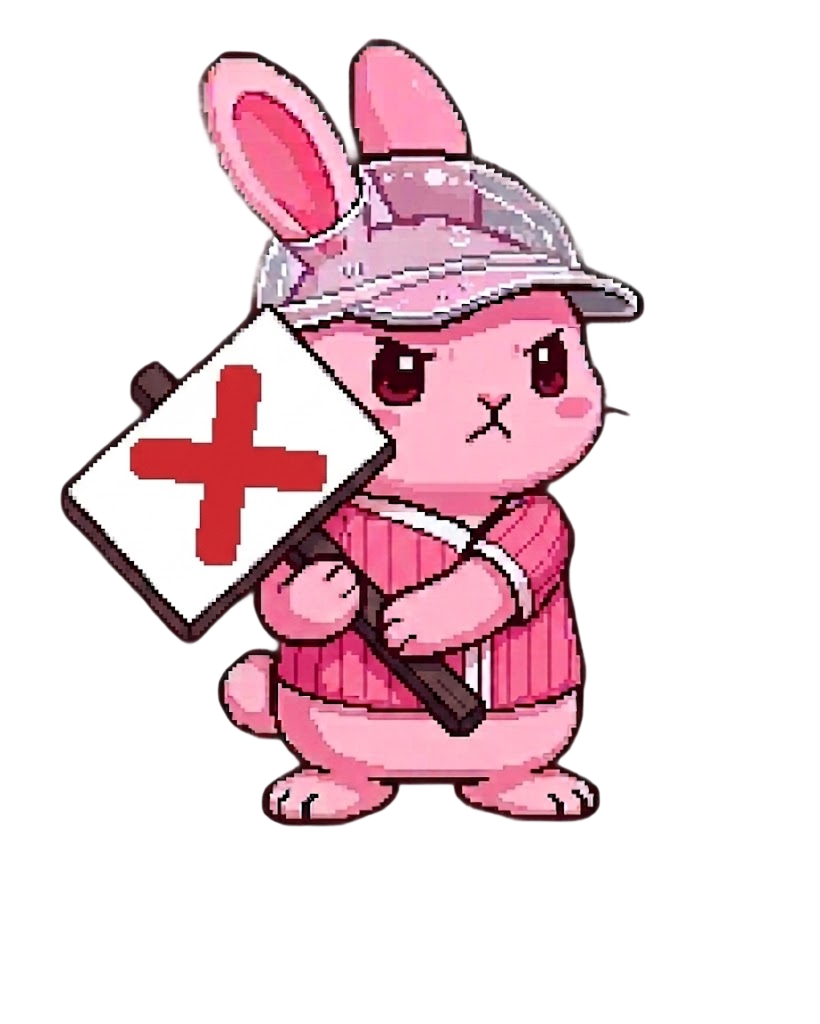
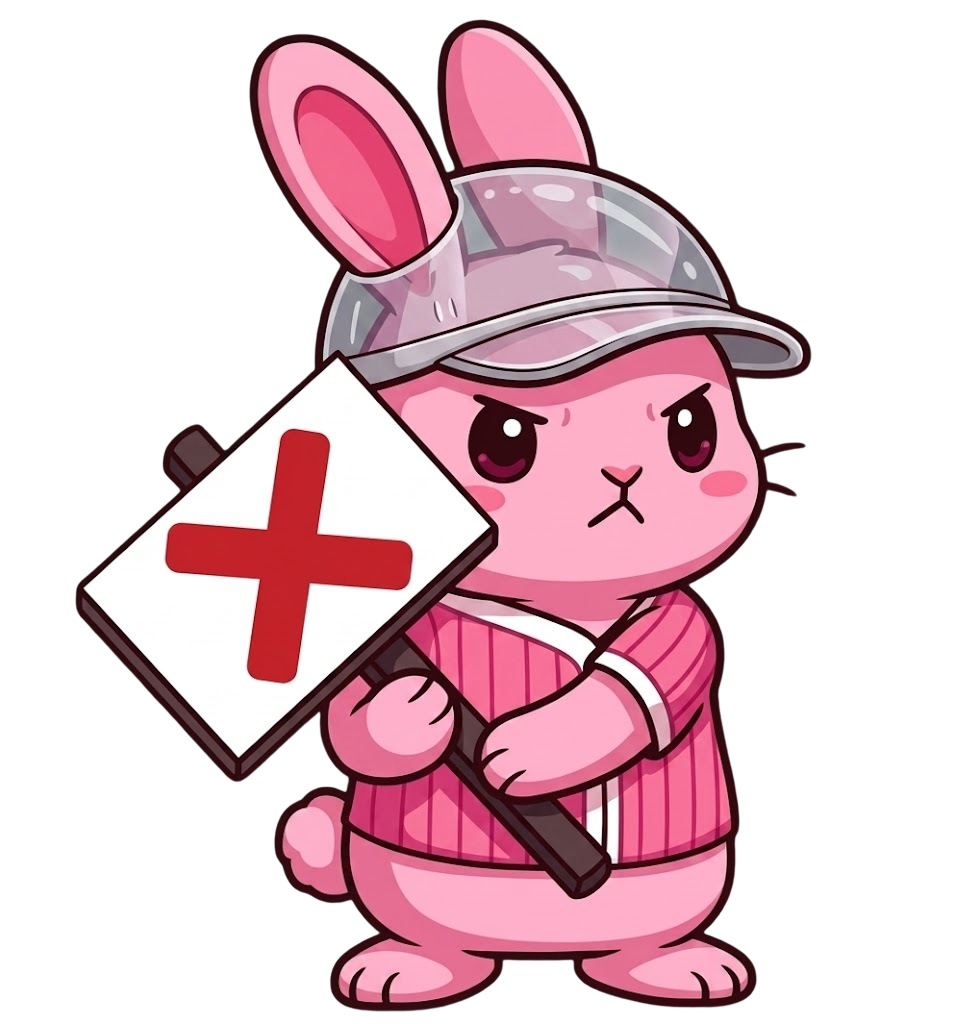
feat(frontend): 야구네컷 컷별 프레임 탭 + 캘린더 마스코트/배경 + 게이트 이미지 교체
- 야구네컷 프레임 선택을 컷 수(2컷/3컷) 카테고리 탭으로 분리 (1컷 에셋 추가 시 자동 노출)
- 전후면 전환 버튼 높이를 토글 안쪽 알약(32px)에 맞춤
- 캘린더 화면: 좌하단 마스코트 배치 + 동일 일러스트 아랫부분 전용 배경
- 용기 인증 게이트(locked) 이미지 교체

diff --git a/frontend/src/app/components/screens/VisitCard.tsx b/frontend/src/app/components/screens/VisitCard.tsx
@@ -83,6 +83,9 @@ const FRAMES: CardFrame[] = [
   { key: 'ssg-3cut',     label: 'SSG 3컷',   countLabel: '3장', src: ssg3Frame,     width: 1080, height: 1920, bg: '#fff', accent: '#151047', slots: SLOTS_3CUT },
 ];
 
+// 컷 수(슬롯 개수)별 카테고리 — 1컷 프레임이 추가되면 자동으로 탭에 포함된다.
+const FRAME_CUTS: number[] = Array.from(new Set(FRAMES.map((f) => f.slots.length))).sort((a, b) => a - b);
+
 const MODES: Array<{ v: CameraPurpose; t: string }> = [
   { v: 'verify', t: '용기인증' },
   { v: 'visit-card', t: '야구네컷' },
@@ -221,6 +224,7 @@ export function VisitCard() {
   // 직관카드
   const [bottomMode, setBottomMode] = useState<BottomMode>('controls');
   const [frameKey, setFrameKey] = useState<string>(FRAMES[0].key);
+  const [frameCut, setFrameCut] = useState<number>(FRAMES[0].slots.length); // 프레임 선택지에서 보고 있는 컷 카테고리
   const [cardPhotos, setCardPhotos] = useState<Array<CardPhoto | null>>(() => makeEmptyCardPhotos(FRAMES[0]));
   const [selectedSlotIndex, setSelectedSlotIndex] = useState<number | null>(null);
   const [visitN, setVisitN] = useState(1);
@@ -820,7 +824,7 @@ export function VisitCard() {
 
       {/* 헤더 — 흰색 풀폭(상태바까지): 중앙 토글 + 우측 전후면 전환. 크기 통일 + 둥근 테두리 */}
       <div style={{ flexShrink: 0, background: '#fff', display: 'flex', alignItems: 'center', gap: 8, padding: '4px 12px 10px' }}>
-        <div style={{ width: 40, flexShrink: 0 }} aria-hidden />
+        <div style={{ width: 32, flexShrink: 0 }} aria-hidden />
         <div style={{ flex: 1, display: 'flex', justifyContent: 'center' }}>
           <div style={{ display: 'inline-flex', alignItems: 'center', height: 40, padding: '0 4px', gap: 2, border: '2px solid #430A21', borderRadius: 9999, background: '#F0E8E7' }}>
             {MODES.map((o) => {
@@ -849,12 +853,12 @@ export function VisitCard() {
             type="button"
             onClick={() => setFacing((f) => (f === 'environment' ? 'user' : 'environment'))}
             aria-label="전후면 전환"
-            style={{ width: 40, height: 40, flexShrink: 0, border: '2px solid #430A21', borderRadius: 9999, background: '#fff', display: 'flex', alignItems: 'center', justifyContent: 'center', cursor: 'pointer' }}
+            style={{ width: 32, height: 32, flexShrink: 0, border: '2px solid #430A21', borderRadius: 9999, background: '#fff', display: 'flex', alignItems: 'center', justifyContent: 'center', cursor: 'pointer' }}
           >
             <SwitchCamera size={19} color="#430A21" strokeWidth={2.4} />
           </button>
         ) : (
-          <div style={{ width: 40, flexShrink: 0 }} aria-hidden />
+          <div style={{ width: 32, flexShrink: 0 }} aria-hidden />
         )}
       </div>
 
@@ -863,9 +867,6 @@ export function VisitCard() {
         <div style={{ flex: 1, minHeight: 0, display: 'flex', flexDirection: 'column', alignItems: 'center', justifyContent: 'center', textAlign: 'center', padding: '20px 28px', gap: 16, background: '#fff' }}>
           <img src={lockedMascot} alt="" aria-hidden="true" style={{ width: '62%', maxWidth: 230, height: 'auto' }} />
           <p style={{ margin: 0, fontSize: 18, fontWeight: 800, color: '#430A21' }}>용기 인증 후에 이용 가능해요</p>
-          <p style={{ margin: 0, fontSize: 13, fontWeight: 600, color: '#8C6B73', lineHeight: 1.6 }}>
-            다회용기를 인증하면 오늘 자정까지<br />야구네컷을 만들 수 있어요.
-          </p>
           <button type="button" onClick={() => setCameraPurpose('verify')}
             style={{ marginTop: 4, border: '2px solid #430A21', borderRadius: 16, background: 'var(--cb-primary)', color: '#fff', padding: '14px 28px', fontSize: 15, fontWeight: 800, cursor: 'pointer', boxShadow: '0 3px 0 0 #430A21, 0 4px 8px rgba(200,92,119,0.32)' }}>
             용기 인증하러 가기
@@ -921,8 +922,20 @@ export function VisitCard() {
                     <X size={18} color="#430A21" strokeWidth={2.6} />
                   </button>
                 </div>
+                {/* 컷 카테고리 탭 (2컷/3컷 … 1컷 프레임 추가 시 자동 노출) — 해당 컷 프레임만 노출 */}
+                <div style={{ display: 'flex', gap: 6, marginBottom: 10 }}>
+                  {FRAME_CUTS.map((cut) => {
+                    const on = frameCut === cut;
+                    return (
+                      <button key={cut} type="button" onClick={() => setFrameCut(cut)} aria-pressed={on}
+                        style={{ padding: '5px 13px', border: '2px solid #430A21', borderRadius: 9999, fontSize: 12, fontWeight: 800, cursor: 'pointer', background: on ? 'var(--cb-primary)' : '#fff', color: on ? '#fff' : '#430A21', boxShadow: on ? '0 2px 0 0 #430A21' : 'none' }}>
+                        {cut}컷
+                      </button>
+                    );
+                  })}
+                </div>
                 <div style={{ display: 'flex', gap: 8, overflowX: 'auto', scrollSnapType: 'x mandatory', paddingBottom: 2 }}>
-                  {FRAMES.map((f) => {
+                  {FRAMES.filter((f) => f.slots.length === frameCut).map((f) => {
                     const active = frameKey === f.key;
                     return (
                       <button key={f.key} type="button" onClick={() => selectCardFrame(f)} aria-pressed={active}
@@ -1037,7 +1050,7 @@ export function VisitCard() {
                     )}
                   </div>
                   <div style={{ display: 'flex', alignItems: 'center', justifyContent: 'space-between', padding: '0 24px' }}>
-                    <button type="button" onClick={() => setBottomMode('frames')} aria-label="프레임" style={ctrlSquareStyle}>
+                    <button type="button" onClick={() => { setFrameCut(currentFrame.slots.length); setBottomMode('frames'); }} aria-label="프레임" style={ctrlSquareStyle}>
                       <Frame size={20} color="#430A21" strokeWidth={2.4} />
                       <span style={ctrlLabelStyle}>프레임</span>
                     </button>
@@ -1061,16 +1074,16 @@ export function VisitCard() {
             ) : (
               // 인증 — 촬영 전: 셔터 / 촬영 후: 다시 · AI 인증
               photo ? (
-                <div style={{ display: 'flex', alignItems: 'center', gap: 12, padding: '4px 24px' }}>
-                  <button type="button" onClick={retake} aria-label="다시 찍기" style={ctrlSquareStyle}>
-                    <RotateCcw size={20} color="#430A21" strokeWidth={2.4} />
+                <div style={{ display: 'flex', alignItems: 'center', gap: 12, padding: '0 20px' }}>
+                  <button type="button" onClick={retake} aria-label="다시 찍기" style={{ ...ctrlSquareStyle, width: 72, height: 72 }}>
+                    <RotateCcw size={24} color="#430A21" strokeWidth={2.4} />
                     <span style={ctrlLabelStyle}>다시</span>
                   </button>
                   <button type="button" onClick={handleAnalyze} disabled={busy}
-                    style={{ flex: 1, height: 56, border: '2px solid #430A21', borderRadius: 16, background: busy ? '#CBD5E1' : 'var(--cb-primary)', color: '#fff', fontSize: 15, fontWeight: 800, display: 'flex', alignItems: 'center', justifyContent: 'center', gap: 8, cursor: busy ? 'not-allowed' : 'pointer', boxShadow: '0 3px 0 0 #430A21, 0 4px 8px rgba(200,92,119,0.32)' }}>
-                    <ScanLine size={18} strokeWidth={2.4} /> AI 인증
+                    style={{ flex: 1, height: 72, border: '2px solid #430A21', borderRadius: 18, background: busy ? '#CBD5E1' : 'var(--cb-primary)', color: '#fff', fontSize: 17, fontWeight: 800, display: 'flex', alignItems: 'center', justifyContent: 'center', gap: 8, cursor: busy ? 'not-allowed' : 'pointer', boxShadow: '0 4px 0 0 #430A21, 0 6px 12px rgba(200,92,119,0.34)' }}>
+                    <ScanLine size={20} strokeWidth={2.4} /> AI 인증
                   </button>
-                  <div style={{ width: 56 }} aria-hidden />
+                  <div style={{ width: 72 }} aria-hidden />
                 </div>
               ) : (
                 <div style={{ display: 'flex', justifyContent: 'center', padding: '4px 0' }}>{captureBtn}</div>

diff --git a/frontend/src/app/components/screens/CalendarScreen.tsx b/frontend/src/app/components/screens/CalendarScreen.tsx
@@ -15,6 +15,7 @@ import {
   fetchVerificationImageUrl,
 } from '../../../lib/verifyApi';
 import { getVisitCards, sharedCardImageUrl } from '../../../lib/visitCardApi';
+import calendarMascot from '../../../assets/calendar-mascot.png';
 
 // ── 공통 정규화 모델 ──────────────────────────────────────────────
 // 'auth'  : 인증 필요. src=id → fetchVerificationImageUrl로 blob 생성 후 revoke
@@ -497,7 +498,7 @@ export function CalendarScreen() {
   const empty = entries !== null && entries.length === 0;
 
   return (
-    <div style={{ height: '100%', display: 'flex', flexDirection: 'column', background: 'transparent' }}>
+    <div className="cb-calendar-bg" style={{ height: '100%', display: 'flex', flexDirection: 'column', background: 'transparent' }}>
       <StatusBar centerLabel="캘린더" />
 
       {/* 상단 탭 토글 */}
@@ -672,6 +673,24 @@ export function CalendarScreen() {
       </div>
 
       {lightbox && <Lightbox entry={lightbox} onClose={() => setLightbox(null)} />}
+
+      {/* 왼쪽 아래 장식 마스코트 — 캘린더 본문 아래, 바텀내비 위 */}
+      <div
+        aria-hidden
+        style={{
+          flexShrink: 0,
+          display: 'flex',
+          justifyContent: 'flex-start',
+          paddingLeft: 8,
+          pointerEvents: 'none',
+        }}
+      >
+        <img
+          src={calendarMascot}
+          alt=""
+          style={{ width: 140, height: 'auto', display: 'block' }}
+        />
+      </div>
 
       <BottomNav />
     </div>

diff --git a/frontend/src/styles/design-system.css b/frontend/src/styles/design-system.css
@@ -228,6 +228,24 @@ html, body, #root {
   min-height: 0;
 }
 
+/* 캘린더 전용 배경 — 동일 야구장 일러스트의 '아랫부분'을 노출 (앱 기본은 center top) */
+.cb-calendar-bg {
+  position: relative;
+  isolation: isolate;
+}
+
+.cb-calendar-bg::before {
+  content: '';
+  position: absolute;
+  inset: 0;
+  background-image: url('../assets/app-bg.png');
+  background-size: cover;
+  background-position: center bottom;
+  background-repeat: no-repeat;
+  z-index: -1;
+  pointer-events: none;
+}
+
 /* ============================================================
    App Header — rose gradient + skyline 데코 + chunky title
    ============================================================ */
